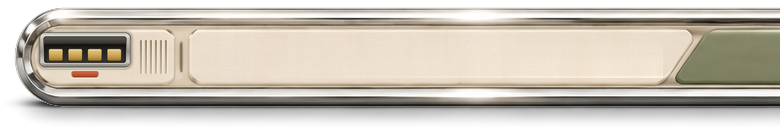
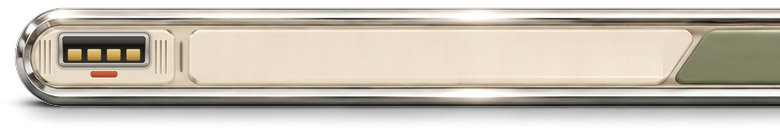
Retro Futurism taskbar: the port centred on its plate, the battery's percentage beside it
Claude-Session: https://claude.ai/code/session_015VvhJ21Y4bjWDEYJNoFXMP

Changed region(s): [[0.0308, 0.2188, 0.2154, 0.625]]

diff --git a/themes/retro-futurism/home/.config/quickshell/modules/Taskbar.qml b/themes/retro-futurism/home/.config/quickshell/modules/Taskbar.qml
@@ -17,7 +17,7 @@ import qs.components
 //   the band       a red line, CASSETTE OS and the Arch logo (click: the
 //                  power menu)
 //   the readouts   Wi-Fi (click: nmtui), volume (scroll; click mutes),
-//                  battery (click: the next power profile), the time
+//                  battery and its % (click: the next power profile), the time
 PanelWindow {
     id: bar
 
@@ -79,7 +79,7 @@ PanelWindow {
 
     // ======== the port: where the app cartridges go in (plate 52-195). The
     // slot, its four contacts (as on the cartridges) and the grip are in the
-    // picture; here the indicator under the slot (92-118, 384-389) glows
+    // picture; here the indicator under the slot (111-137, 384-389) glows
     // while the launcher is open, and a click opens it.
     Item {
         id: port
@@ -88,7 +88,7 @@ PanelWindow {
         readonly property bool lit: Panels.open === "launcher"
         // the bezel catches a little light under the pointer
         Rectangle {
-            x: (60 - 52) * bar.s; y: (345 - 339) * bar.s
+            x: (79 - 52) * bar.s; y: (345 - 339) * bar.s
             width: 90 * bar.s; height: 34 * bar.s; radius: 5 * bar.s
             color: "transparent"
             border.width: Math.max(1, 1.4 * bar.s); border.color: "#fff6dc"
@@ -97,7 +97,7 @@ PanelWindow {
         }
         // the indicator, lit: amber, with its glow
         Rectangle {
-            x: (92 - 52) * bar.s; y: (384 - 339) * bar.s
+            x: (111 - 52) * bar.s; y: (384 - 339) * bar.s
             width: 26 * bar.s; height: 5.5 * bar.s; radius: height / 2
             color: bar.amber
             opacity: port.lit ? 1 : 0
@@ -236,7 +236,7 @@ PanelWindow {
     Canvas {
         id: wifi
         width: 24; height: 20; scale: bar.u
-        x: bar.rx(1711) - width / 2; y: bar.my(368) - height / 2
+        x: bar.rx(1703) - width / 2; y: bar.my(368) - height / 2
         readonly property int level: !Net.online ? 0 : Net.wired ? 3 : Math.max(1, Math.ceil(Net.signal * 3))
         onLevelChanged: requestPaint()
         onPaint: {
@@ -257,12 +257,12 @@ PanelWindow {
             onClicked: Quickshell.execDetached([Settings.terminal, "-e", "nmtui"])
         }
     }
-    Sep { x: bar.rx(1750) }
+    Sep { x: bar.rx(1737) }
     // volume: the speaker and as many waves as it is loud (x 1791)
     Canvas {
         id: vol
         width: 26; height: 20; scale: bar.u
-        x: bar.rx(1791) - width / 2; y: bar.my(368) - height / 2
+        x: bar.rx(1771) - width / 2; y: bar.my(368) - height / 2
         readonly property int waves: Audio.muted ? -1 : Audio.volume <= 0.01 ? 0 : Audio.volume < 0.4 ? 1 : 2
         onWavesChanged: requestPaint()
         onPaint: {
@@ -286,13 +286,13 @@ PanelWindow {
             onWheel: e => Audio.setVolume(Math.max(0, Math.min(1, Audio.volume + (e.angleDelta.y > 0 ? 0.05 : -0.05))))
         }
     }
-    Sep { x: bar.rx(1833) }
+    Sep { x: bar.rx(1806) }
     // battery: one smooth bar, as full as the battery (x 1888); amber
     // while charging, rust when low
     Item {
         id: batt
         width: 38; height: 18; scale: bar.u
-        x: bar.rx(1888) - width / 2; y: bar.my(368) - height / 2
+        x: bar.rx(1851) - width / 2; y: bar.my(368) - height / 2
         visible: Power.present
         readonly property color tone: Power.low ? bar.rust : Power.charging ? "#c98a2c" : bar.ink
         Rectangle {
@@ -316,10 +316,22 @@ PanelWindow {
             }
         }
     }
+    // the battery's figure, beside it
+    Text {
+        visible: Power.present
+        x: bar.rx(1890)
+        y: bar.my(368) - height / 2
+        text: Power.percent + "%"
+        color: Power.low ? bar.rust : bar.ink
+        font.family: bar.face
+        font.pixelSize: Math.round(22 * bar.s)
+        font.weight: Font.Medium
+        font.features: { "tnum": 1 }
+    }
     Sep { x: bar.rx(1954); visible: Power.present }
     // the time, centred where the mock-up's was (x 2028)
     Text {
-        x: bar.rx(2028) - width / 2
+        x: bar.rx(2025) - width / 2
         y: bar.my(368) - height / 2
         text: Clock.time
         color: bar.ink

diff --git a/themes/retro-futurism/tools/make_taskbar.py b/themes/retro-futurism/tools/make_taskbar.py
@@ -58,7 +58,7 @@ def paint_port():
             gd.line([(0, yy), (x1 - x0, yy)], fill=c)
         m = Image.new('L', gr.size, 0); ImageDraw.Draw(m).rounded_rectangle([0, 0, gr.size[0] - 1, gr.size[1] - 1], r * Z, fill=255)
         g.paste(gr, (x0, y0), m); return g
-    bx0, by0, bx1, by1 = 60, 345, 150, 379            # the bezel round the slot
+    bx0, by0, bx1, by1 = 79, 345, 169, 379            # the bezel round the slot, centred on the plate
     # let into the plate: shade above, a light lip below
     sh = layer(); rr(sh, (bx0 - 1.5, by0 - 1.5, bx1 + 1.5, by1 + 0.5), 6, (70, 52, 30, 120))
     base.alpha_composite(sh.filter(ImageFilter.GaussianBlur(1.6 * Z)))
@@ -95,12 +95,11 @@ def paint_port():
     hl = layer(); ImageDraw.Draw(hl).rounded_rectangle([*P(bx0 + 3, by0 + 0.6), *P(bx1 - 3, by0 + 1.4)], Z, fill=(255, 255, 255, 150))
     base.alpha_composite(hl.filter(ImageFilter.GaussianBlur(0.4 * Z)))
     # the indicator under the slot, as on the launcher (the shell lights it)
-    ix0, iy0, ix1, iy1 = 92, 384, 118, 389.5
+    ix0, iy0, ix1, iy1 = 111, 384, 137, 389.5
     base.alpha_composite(vgrad((ix0 - 0.8, iy0 - 0.8, ix1 + 0.8, iy1 + 0.8), [(0, (120, 100, 78, 255)), (1, (250, 244, 230, 255))], 2.4))
     base.alpha_composite(vgrad((ix0, iy0, ix1, iy1), [(0, (214, 98, 60, 255)), (1, (160, 64, 36, 255))], 2))
-    # the grip: ribs pressed into the plate, right of the slot
-    for i in range(6):
-        x = 160 + i * 5
+    # the grip: ribs pressed into the plate, either side of the slot
+    for x in (59, 64, 69, 175, 180, 185):
         base.alpha_composite(vgrad((x, 352, x + 2, 386), [(0, (150, 132, 104, 255)), (1, (196, 182, 160, 255))], 1))
         hl2 = layer(); ImageDraw.Draw(hl2).rounded_rectangle([*P(x + 2, 352), *P(x + 2.8, 386)], int(0.4 * Z), fill=(255, 250, 236, 170))
         base.alpha_composite(hl2)

diff --git a/themes/retro-futurism/README.md b/themes/retro-futurism/README.md
@@ -39,7 +39,8 @@ Gadgets in steel, cream and sage with e-ink screens.
   are, the red line under the one in view; click, or scroll to step); the
   sage band with its red line, CASSETTE OS and the Arch logo (click:
   the power menu); and Wi-Fi (click: nmtui), volume (scroll; click mutes),
-  battery (one smooth bar; click: the next power profile) and the time.
+  battery (one smooth bar and its percentage; click: the next power
+  profile) and the time.
   The cartridge port is painted into the picture by the tool (a slot in a
   steel bezel with four gold contacts, as on the cartridges, the red
   indicator under it, a ribbed grip); the shell lights the indicator.
